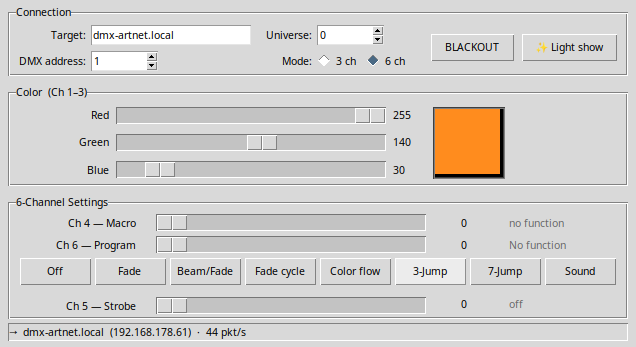
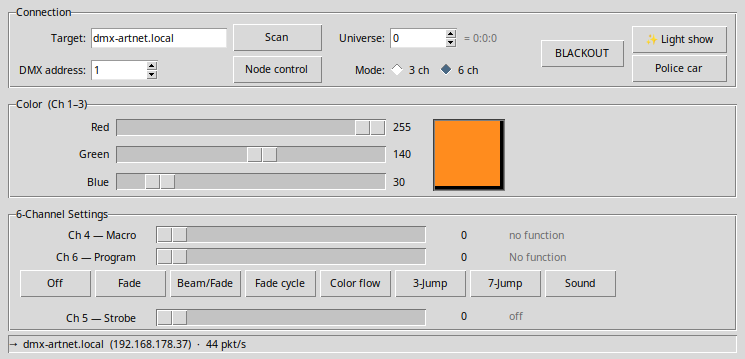
docs: document ArtPollReply, ArtAddress, ArtIpProg, new web UI and GUI

Changed region(s): [[0.0, 0.0, 1.0, 0.5476], [0.0, 0.5764, 1.0, 0.9798], [0.8066, 0.634, 0.8962, 0.6628]]

diff --git a/README.md b/README.md
@@ -161,7 +161,9 @@ portal**:
    automatically (iOS, Android, and most desktop OSes detect it).
    If it does not open automatically, navigate to **http://192.168.4.1**.
 3. Click **Scan networks** to populate the dropdown with nearby SSIDs.
-4. Select your network, enter its password, and tap **Connect**.
+4. Select your network, enter its password, optionally set the Art-Net
+   **net** (0–127), **sub-net** (0–15) and **universe** (0–15), and tap
+   **Save & connect**.
 5. The device restarts, connects to your network, and is reachable at
    **http://dmx-artnet.local** (mDNS) or at the IP shown in your router's
    DHCP table (hostname: `dmx-artnet`).
@@ -181,14 +183,25 @@ Once connected, the node serves a status and configuration page at
 ### Status
 
 The top of the page auto-refreshes every 2 seconds and shows firmware
-version, IP address, WiFi RSSI, active Art-Net universe, incoming packet
-rate, and a live bar graph for DMX channels 1–16.
+version, IP address, WiFi RSSI, active Art-Net universe (the 15-bit
+port-address) split into its **Net** and **Sub-net** parts, incoming packet
+rate, and a live bar graph for DMX channels 1–48 (three rows of 16, paged with
+the arrow buttons).
+
+The **Art-Net short name** (max. 17 characters) and **long name** (max. 63) are
+editable fields with a **Save** button beside each. They are the names the node
+reports in its ArtPollReply, the same ones a controller can set with ArtAddress,
+and are stored in NVS. Saving an empty field resets that name to its default;
+non-ASCII characters are replaced by `?`. The fields follow changes made
+remotely, unless you have unsaved edits in them.
 
 ### Art-Net Settings
 
-A large numeric input with **−** / **+** buttons lets you change the
-Art-Net universe at runtime (0–32767).  Pressing **Save** applies the
-change immediately — no reboot required.
+Three large numeric inputs with **−** / **+** buttons set the Art-Net
+port-address as defined by the standard: **Net** (0–127), **Sub-net** (0–15)
+and **Universe** (0–15). Values outside these ranges are clamped, and each
+**Save** button stores the complete address (`net × 256 + sub-net × 16 +
+universe`, 0–32767).  It applies immediately — no reboot required.  The WiFi setup portal has the same three fields.
 
 ### Network Configuration
 
@@ -200,7 +213,7 @@ Saving network settings restarts the device to apply them.
 
 | Method | Description |
 |---|---|
-| **Automatic updates** | Checkbox at the top of the section. Switches the 6-hourly GitHub check on or off; the choice is saved in flash and survives reboots (default: on). Manual updates always work. |
+| **Automatic updates** | Checkbox at the top of the section. Switches the 6-hourly GitHub check on or off; the choice is saved in flash and survives reboots (default: **off** — automatic updates only run after you tick it). Manual updates always work. |
 | **Flash from URL** | Enter an HTTPS URL to a `.bin` file (pre-filled with the latest GitHub release URL) and press **Flash from URL**. |
 | **Upload binary** | Select a local `.bin` file and press **Upload & flash**. |
 
@@ -231,12 +244,13 @@ The board has two onboard LEDs that indicate the current state:
 
 Firmware can be updated in two ways:
 
-**Automatic** — every 6 hours the firmware checks the GitHub release page of
-`thomas-engineering/esp_artnet` for a newer binary.  If a new release is
-found it downloads and verifies the image over HTTPS and reboots into the new
-slot.  It can be switched off with the **Automatic updates** checkbox in the web
-interface (setting is stored in NVS, default on).  After re-enabling, the next
-check happens at the next regular 6 h interval or after a reboot.
+**Automatic** — **off by default**. After you tick **Automatic updates** in the
+web interface (the setting is stored in NVS and survives reboots), the firmware
+checks the GitHub release page of `thomas-engineering/esp_artnet` for a newer
+binary 10 s after every boot and then every 6 hours.  If a new release is found
+it downloads and verifies the image over HTTPS and reboots into the new slot.
+Ticking the box does not start a check immediately: the next one happens at the
+next boot or the next 6 h interval.  Unticking it stops all checks.
 
 **Manual** — use the **Firmware Update** section of the web interface to
 flash a binary from a URL or upload one from disk (see [Web Interface](#web-interface)).
@@ -265,11 +279,80 @@ cd python_test_client
 python3 gui.py
 ```
 
+or, from the project root, in the background (detached from the terminal, errors
+go to `/tmp/esp_artnet_gui.log`):
+
+```bash
+./run_test_client.sh
+```
+
+### Discovering nodes (Scan)
+
+The node answers **ArtPoll** (opcode `0x2000`) with an **ArtPollReply**
+(`0x2100`, 239 bytes), so Art-Net controllers and the test client can find it.
+The reply contains the node's IP and MAC, its names, firmware version
+(minor.patch), the DHCP state and its single DMX output port with the
+configured universe. It is sent as a unicast to the address and port the poll
+came from.
+
+**ArtAddress** (`0x6000`) lets a controller reprogram the node remotely; the
+node answers with an ArtPollReply. Supported fields:
+
+| Field | Effect |
+|---|---|
+| NetSwitch, SubSwitch, SwOut[0] | 15-bit port-address of the output port. Applied only when bit 7 is set (`0x80 \| value`); `0x7F` and `0x00` mean *no change* (the node has no physical switches to reset to). The value is saved in NVS, like the web UI setting. |
+| PortName (17 chars), LongName (63 chars) | Node names shown in ArtPollReply; saved in NVS. Empty = unchanged. |
+| Command `0x02` / `0x03` / `0x04` | LEDs normal / muted / locate (fast white blink). The state is reported in the ArtPollReply status byte. |
+| Command `0x90` | Clear the DMX output buffer. |
+
+Other commands (merge modes etc.) are ignored. ArtAddress only addresses the
+single output port (BindIndex 0 or 1).
+
+**Unsolicited ArtPollReply:** the node broadcasts a reply (to the subnet's
+directed broadcast address, port 6454) once after boot. If a controller has
+polled with the TalkToMe flag *reply on change* (bit 1), it also broadcasts a
+reply whenever the universe, the names or the LED mode change, whether the
+change came from ArtAddress or from the web UI.
+
+**ArtIpProg** (`0xF800`) configures the node's IP settings remotely; the node
+answers with an **ArtIpProgReply** (`0xF900`) carrying its IP address, subnet
+mask, default gateway and DHCP state:
+
+| Command bits | Effect |
+|---|---|
+| `0x00` (no bits) | Query only: the reply reports the current settings. |
+| `0x80 \| 0x40` | Enable DHCP. |
+| `0x80 \| 0x08` / `0x04` / `0x20` | Program IP address / subnet mask / default gateway (static IP). Parts that are not selected keep their current value; the DNS server stays as configured, or falls back to the gateway. |
+| `0x80 \| 0x10` | "Return to defaults": switches to DHCP, which is this node's default. |
+
+Programming uses the same storage as the **Network Configuration** section of
+the web interface, and, like there, the node **restarts** to apply it. Invalid
+addresses or masks are rejected without a restart. Art-Net has no
+authentication, so anyone on the network can send this; if a wrong static
+address makes the node unreachable, hold the BOOT button for 3 s to reset the
+network settings.
+
+In the test client, **Scan** (next to the Target field) broadcasts an ArtPoll (sent from
+an ephemeral port, so the node's answer is not lost when another Art-Net program
+shares UDP port 6454) to
+`255.255.255.255` and to the `x.y.z.255` broadcast address of the default
+interface (assuming a /24 subnet) for 3 seconds and lists every device that
+answers, showing name, IP address, **Art-Net Port-Adr.** (as `net:sub-net:universe`,
+e.g. `1:2:3`) and type. Select one and press **Use selected** (or double-click) to
+copy its IP address and port-address into the Connection fields.
+
+**Node control** (below Scan) is enabled while a node answers an ArtPoll on the
+target address (checked every 2 s). It opens a test dialog for the functions
+above: set net / sub-net / universe, set the names, send the LED and clear
+commands, read or change the IP configuration (DHCP or static), poll the node, and ask for unsolicited replies. Every ArtPollReply the
+node sends is shown in the log, including broadcasts. By default the GUI's own
+universe follows an address change so the lamp keeps being controlled.
+
 ### GUI overview
 
 | Section | Controls |
 |---|---|
-| **Connection** | Target hostname or IP (`dmx-artnet.local`), Art-Net universe (0–32767), DMX start address (1–507), 3 ch / 6 ch mode, **BLACKOUT** toggle, **✨ Light show** and **Police car** toggles |
+| **Connection** | Target hostname or IP (`dmx-artnet.local`) with **Scan** and **Node control** buttons, Art-Net **net** (0–127), **sub-net** (0–15) and **universe** (0–15), DMX start address (1–507), 3 ch / 6 ch mode, **BLACKOUT** toggle, **✨ Light show** and **Police car** toggles |
 | **Color** | Red / Green / Blue sliders (Ch 1–3) + live color preview swatch |
 | **6-Channel Settings** | Ch 4 macro, Ch 6 program with one-click preset buttons, Ch 5 strobe/speed/sensitivity (label changes with Ch 6 value) |
 | **Status bar** | Resolved IP, packets per second, error count |
@@ -436,15 +519,17 @@ esp_artnet/
 │   ├── provisioning.c   — SoftAP captive portal, WiFi connect, DNS hijack,
 │   │                       NVS-backed universe + network config (DHCP/static IP)
 │   ├── artnet.c         — UDP receiver, Art-Net parser, runtime universe change
+│   ├── artnet_poll.c    — builds the ArtPollReply, stores the node names
+│   ├── artnet_ip.c      — ArtIpProg / ArtIpProgReply (remote IP configuration)
 │   ├── dmx.c            — UART1 DMX-512 transmitter
-│   ├── ota.c            — automatic GitHub OTA updater (6 h interval)
+│   ├── ota.c            — optional automatic GitHub OTA updater (off by default, 6 h interval)
 │   ├── webserver.c      — status/config web UI, /api/status, /api/config,
 │   │                       /ota/url, /ota/upload
 │   ├── led.c/.h         — WS2812 + GPIO2 status LEDs
 │   ├── web/             — HTML/CSS/JS pages, embedded into the firmware at build time
 │   │   ├── status.html      — status / config web UI (served by webserver.c)
 │   │   └── portal.html      — WiFi setup captive portal (served by provisioning.c,
-│   │                           placeholders {{UNIVERSE}} and {{VERSION}})
+│   │                           placeholders {{NET}}, {{SUB}}, {{UNI}}, {{VERSION}})
 │   ├── debug/           — optional debug/test code, only compiled with -DDMX_DEBUG_*
 │   │   ├── debug.cmake      — maps the -DDMX_DEBUG_* options to sources/defines
 │   │   ├── dmx_debug.c/.h   — single hook interface used by main.c / dmx.c
@@ -453,8 +538,9 @@ esp_artnet/
 │   │   └── dmx_sniff.c      — DMX bus sniffer (DMX_DEBUG_SNIFF)
 │   ├── CMakeLists.txt
 │   └── idf_component.yml  — managed components: espressif/cjson, mdns, led_strip
+├── run_test_client.sh   — starts the Python test GUI in the background
 ├── python_test_client/
-│   ├── artnet.py        — Art-Net UDP sender (stdlib only)
+│   ├── artnet.py        — Art-Net UDP sender, ArtPoll / ArtAddress / ArtIpProg client (stdlib only)
 │   ├── gui.py           — tkinter GUI for Showtec LED Par 64 (42427)
 │   └── requirements.txt
 ├── doc/
